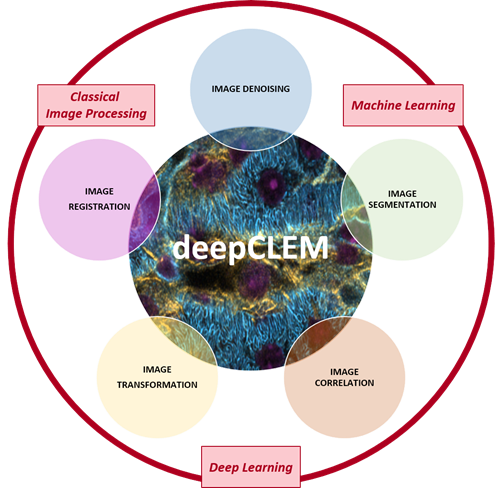
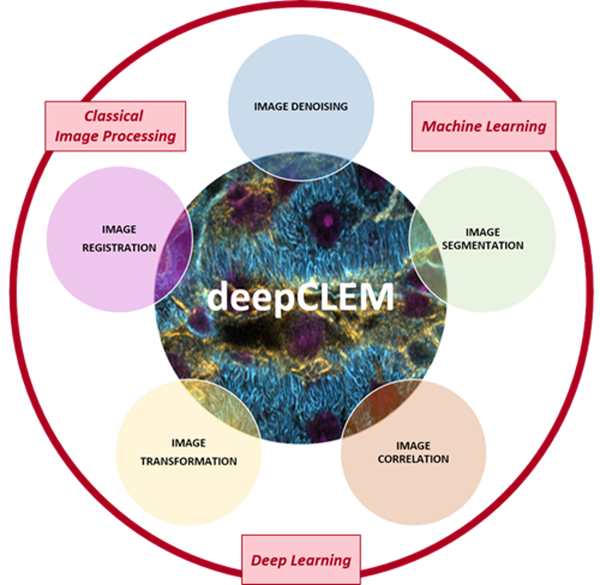
update topics

diff --git a/_includes/topics.html b/_includes/topics.html
@@ -10,7 +10,7 @@
             <img class="img-responsive" src="../img/research/diagrama.png" alt="">
             -->
         </div>
-        <div class="col-lg-8 col-lg-offset-2">
+        <div class="col-lg-8 col-lg-offset-2 text-center">
             <img class="img-responsive" src="../img/research/diagrama.png" alt="">
             <br/><br/>
         </div>
